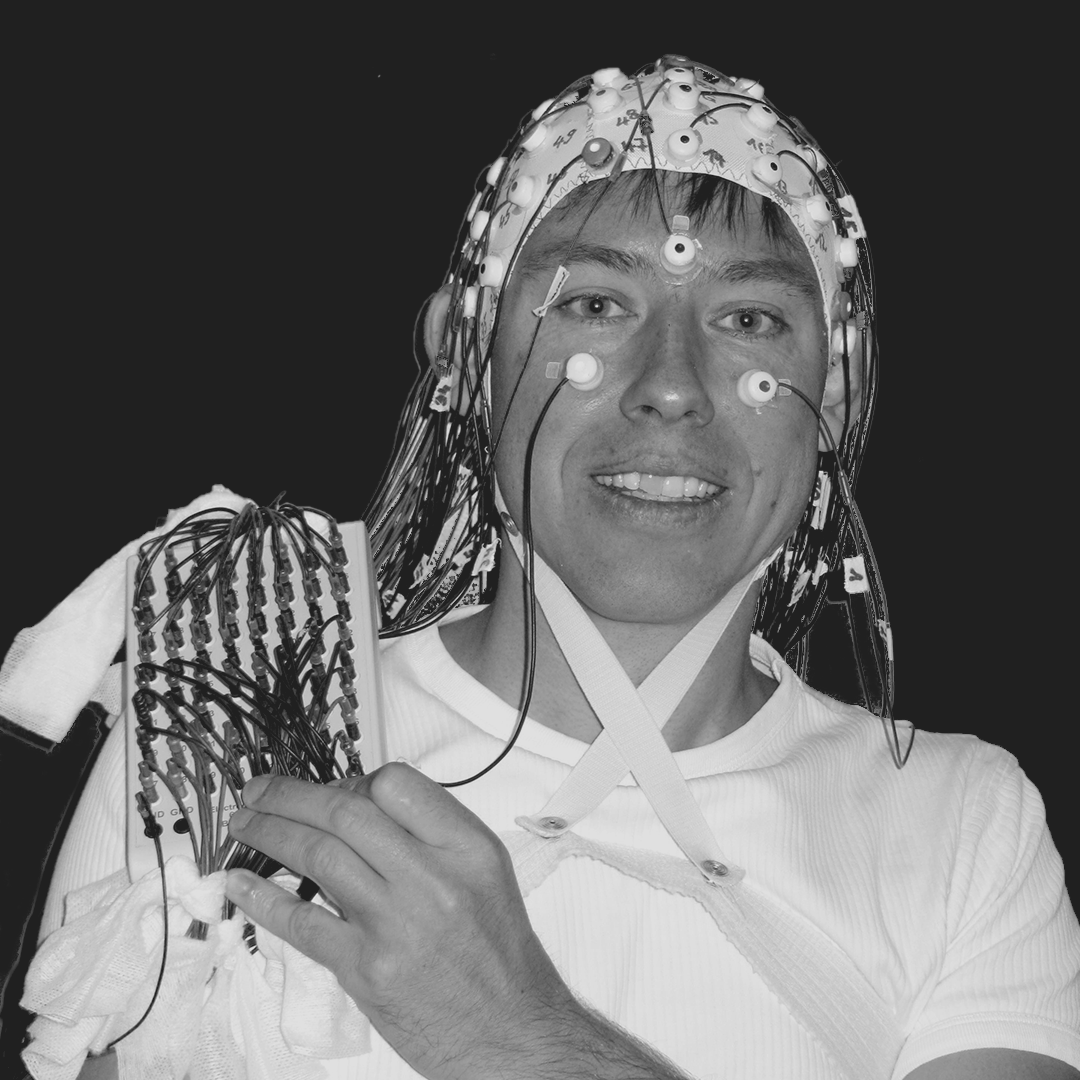
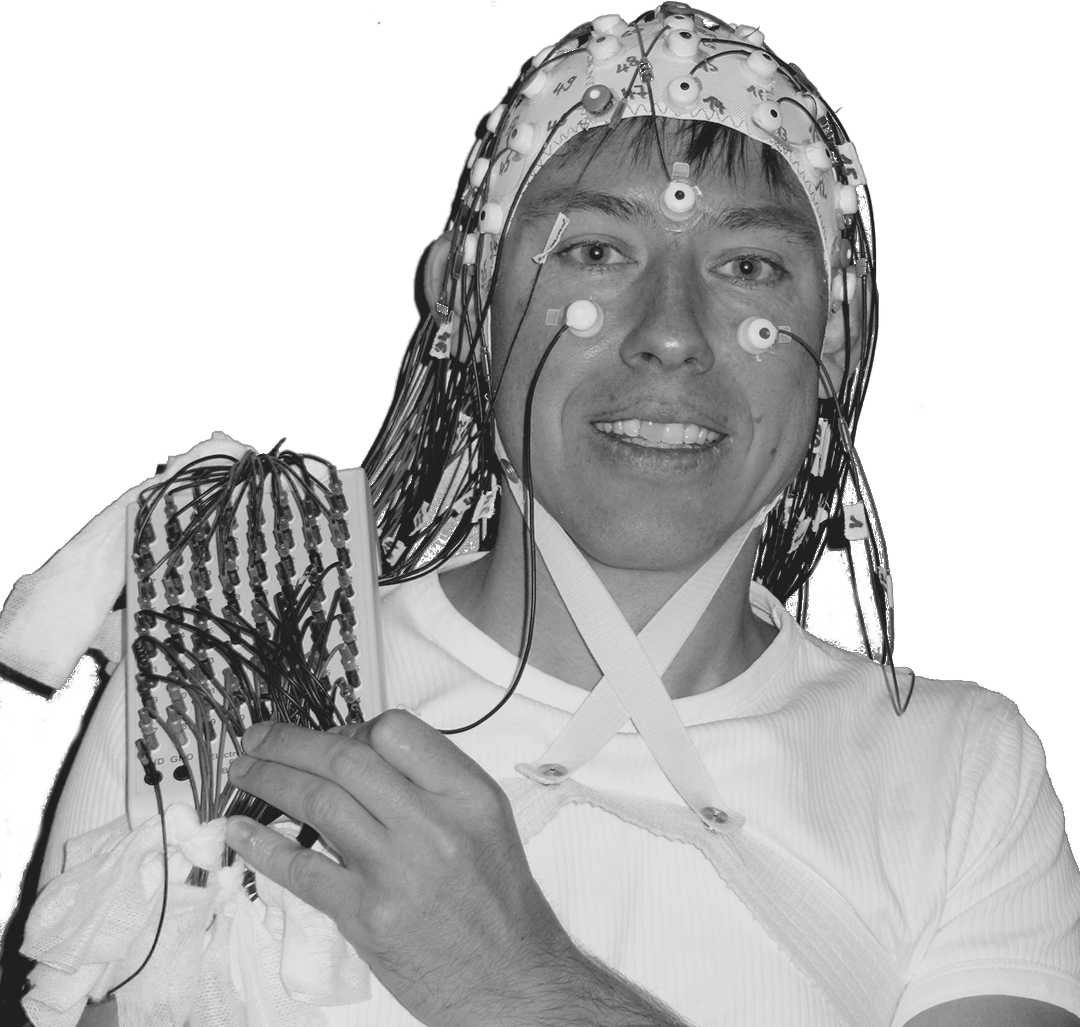
Full content added

diff --git a/src/views/DeviceReview.vue b/src/views/DeviceReview.vue
@@ -3,10 +3,21 @@
     <h1>Device Review</h1>
     <p>Wonder what BCI device to get? There are so many choices. Is one device better than the others? Let me help shed a little light on the two devices I have experience with.</p>
     <h3><a href="https://store.neurosky.com/pages/mindwave">Mindwave: NeuroSky</a></h3>
+    <p><img class="review-img" srcset="../assets/mindwave.png 2x"></p>
     <p>The Mindwave is probably the most affordable entry point into owning an actual EEG device. Unfortunately, Neurosky doesn't have the best reputation among the BCI community as there were clams that they weren't even EEG devices. They do work, and with a little bit of coding you can actually get raw readings off the device.</p><p>I have the version one which was designed for kids, but they now have a version 2 for adults. Which is good as the older version was kind of painful to where. I actually end up modifying it with a headband so it would fit better.</p><p>The Mindwave is targeted toward meditation and focus games and applications. Outside of those areas, I have yet to see a really solid classification application. But that doesn't mean you can't build one!</p>
     <h3><a href="https://shop.openbci.com/collections/frontpage/products/cyton-biosensing-board-8-channel?variant=38958638542">Cyton: OpenBCI</a></h3>
+    <p><img class="review-img" srcset="../assets/cyton.png 1x"></p>
     <p>This device is a bit more expensive. You are looking at around $400, unless you purchase its little brother the Ganglion. The Cyton has 8 channels and is targeted toward the diy community. They do get used in school, but are not yet considered as reliable as research grade devices.</p><p>OpenBCI is completely open source which is fantastic. You can actually download the gerber files(circuit board design files) and customize your own BCI device. Along with the open source comes a great community with tones of information to help get you up and running.</p><p>The device can be a bit unwieldy without all the extras they sell on the OpenBCI site. An ideal setup with the Cyton would have the 3D printed headset and active dry electrodes, but the price quickly climbs to $1,000 and above.</p><p>If you are serious about BCI, you can use a Cyton as a great entry point and learn about the nature of EEG recordings and how sensitive they can be. This will help you learn to setup electrode and filter incoming signals to attain usable data. With good data you can start building machine learning models and start classifying motor movements.</p>
     <h3>Everything else</h3>
     <p>There are resource to completely build your own EEG device from scratch. You will gain an electrical engineering degree along the way. As for the clinical devices, they are going to be fairly expensive, so unless you have some connections or find a used device, your gonna need a couple grand to buy one.</p><p>Who needs a device!! Yes, you might not need a device to get started working with BCIs. There is plenty of EEG dataset out there for free. Search for EEG competition data. The great thing about this data is that it has been meticulously gathered on clinical equipment!! So you can go to town developing your state of the are mind reading algorithms.</p>
   </div>
 </template>
+
+<style lang="scss">
+    .review-img {
+        width: 30%;
+        // float: left;
+        padding: 20px;
+    }
+    
+</style>

diff --git a/src/views/BCI.vue b/src/views/BCI.vue
@@ -1,5 +1,28 @@
 <template>
-  <div class="bci">
-    <h1>This page will contain a guide to BCI.</h1>
+  <div class="bci article">
+    <h1>BCI or Brain Computer Interface</h1>
+    <p>As the keyboard and mouse are the interface for your hands to control the computer, the BCI is the interface for your brain to control the computer. There are many ways you can build a BCI, but the core principle is to take brain activity from its user and use that to control a computerized system.</p>
+    <p>Anybody can use a BCI, but they are currently used a lot in the medical field. They can allow an individual, who has lost motor controls, the ability to use a computer. Or, in the gaming world, they can be used to give a player additional abilities based off of their mental focus and attention.</p>
+    <h2>Using EEG for BCI Applications</h2>
+    <p>When you first see EEG recordings, you may wonder how anything useful can be pulled them.</p>
+    <p><img srcset="../assets/EEG@2x.png 2x"></p>
+    <p>If we apply some filter we can clean up the noise in the signal quite a bit. You can think of these like equalizers for music. We want to remove some bass and higher notes, so we can hear the vocals.</p>
+    <p><img srcset="../assets/EEG-filtered@2x.png 2x"></p>
+    <p>Cool! That is already looking a lot better. At this point any additional processing you do to the EEG recording is generally done to express hidden characteristic that we can't see with our eyes. For example, if we were developing a game that utilizes your focus and attention, we might want to see the levels of different brain rhythms. Rhythms have been found to characterize different states of awake and sleep. So if we have the computer crunch the numbers a bit we can get information like this.</p>
+    <p><img srcset="../assets/Power-chart@2x.png 2x"></p>
+    <p>We can see that the alpha levels are kind of low. Alpha levels have been associated with relaxation, so we might be able to say the player is not currently relaxed. Maybe part of your game can require an individual to be relaxed in order to cast a spell, or steady their aim.</p>
+    <h2>You can actually develop your own BCI!</h2>
+    <ol>
+			<li><router-link to="/review">Buy a EEG device.</router-link></li>
+			<li><router-link to="/resources">Write some code!</router-link></li>
+			<li>Connect it to your application of choice.</li>
+    </ol>
+    <p>Of course I am simplifying it a bit, but given more and more people have coding skills, their is a good chance you could build one as a weekend project. If you are not the programming type, their are existing devices to use in gaming and many more coming soon. <a href="https://www.next-mind.com/">Nextmind</a> is a device that is already available and they are creating an ecosystem for developers to easily connect there device to games and in home control systems. One more system to keep your eyes on is <a href="https://galea.co/">Galea</a> which is being developed by Valve (Half-life games!) with collaboration from OpenBCI.</p>
   </div>
 </template>
+
+<style lang="scss">
+	img {
+		width: 90%;
+	}
+</style>

diff --git a/src/App.vue b/src/App.vue
@@ -25,7 +25,7 @@
 body {
   background-image: url("./assets/brain-bg-plus.png");
   background-repeat: no-repeat;
-  // background-attachment: fixed;
+  background-attachment: fixed;
   background-position: top 50px right 50%; 
   background-color: $bg-color;
   padding: 0;
@@ -95,7 +95,7 @@ a {
   color: $white;
 
   &:visited {
-    color: #AAAAAA;
+    color: $white;
   }
 }
 </style>

diff --git a/src/components/Landing.vue b/src/components/Landing.vue
@@ -52,5 +52,6 @@ a {
   max-width: 1024px;
   margin: 0 auto;
   text-align: left;
+  padding: 0 20px;
 }
 </style>
